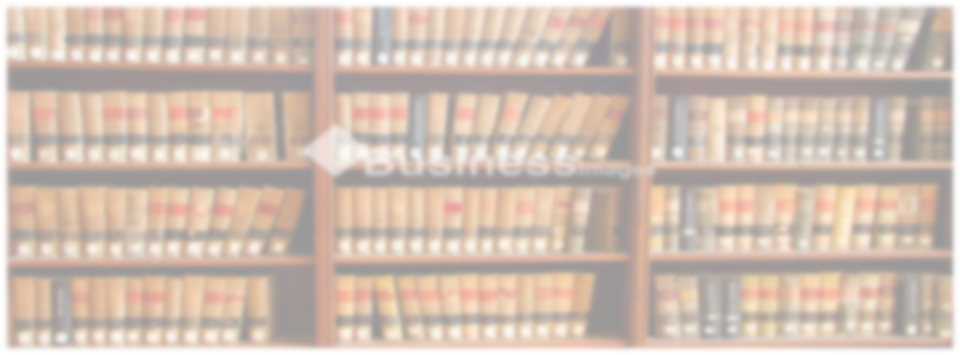
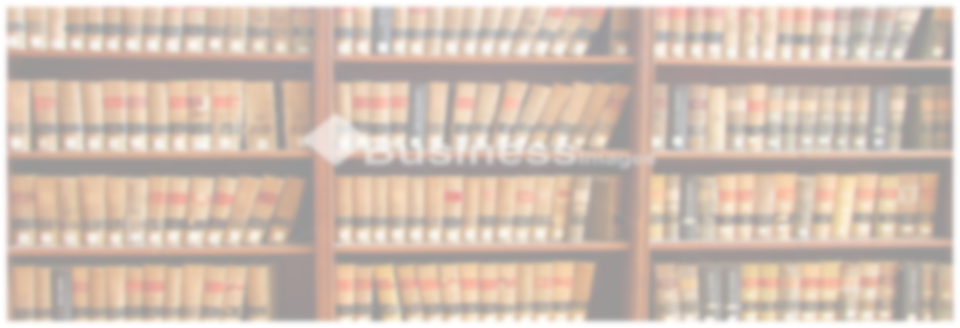
changes to style.css
style changes for catalog search box

diff --git a/sites/all/themes/law/styles/styles.css b/sites/all/themes/law/styles/styles.css
@@ -615,7 +615,31 @@ zoom: 1;
 
 #frontSearch {
 	background-image: url(../images/searchBackground.png);
-	height:360px;
+	height:330px;
+}
+#frontBox {
+	position:absolute;
+	margin-top:64px;
+	margin-left:105px;
+	height:200px;
+	width:700px;
+	background-color:#E3E4DE;
+	border:1px solid #666;					
+}
+#frontSearchForm {
+	display:block;
+	margin-top:38px;
+	margin-left:16px;	
+}
+input#frontSearchBox {
+	width: 485px;
+	font: 24px Arial, sans-serif;
+	border: 1px solid #666;
+}
+input#frontSearchButton {
+	padding: 5px 20px;
+	font-size: 18px;
+	background-color: #D0B87C;
 }
 #featured-text {
 	padding-left: 10px;
